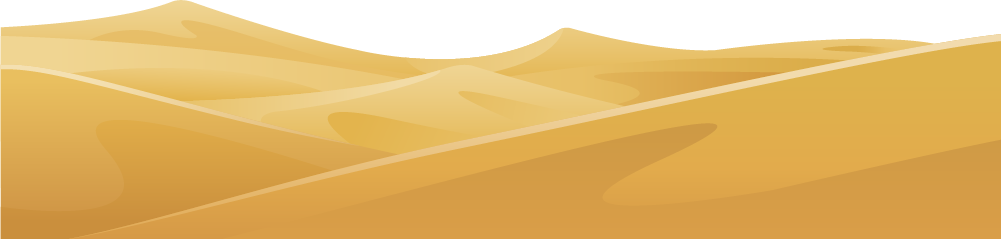
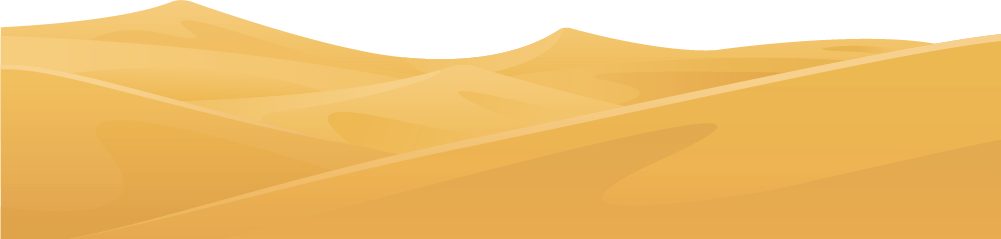
Recolored and adjusted images

diff --git a/src/pages/Home/Home.jsx b/src/pages/Home/Home.jsx
@@ -9,6 +9,7 @@ import Dunes from "../../assets/images/Home/Dunes.png";
 import Floor from "../../assets/images/Home/Floor.png";
 import Front_Floor from "../../assets/images/Home/Front-Floor.png";
 import Sun from "../../assets/images/Home/Sun.png";
+import FlyingBird from "../../assets/images/Home/FlyingBird.png"
 
 function Home() {
   return (
@@ -17,19 +18,26 @@ function Home() {
       {/* </PageAnimation> */}
       <ScrollLabel />
 
-      <div className="w-screen h-screen absolute top-0 left-0 -z-10 bg-gradient-to-b from-[#ffdd80] to-[#F3E0B3]">
+      <div className="w-screen h-screen absolute top-0 left-0 -z-10 bg-gradient-to-b from-[#ffc75f] to-[#ffe49b]">
         <ImgContainer
-          data-speed={3}
+          data-speed={6}
           src={Sun}
-          size="cover"
+          size="contain"
           position="bottom"
-          className="scroll absolute top-0 left-0 md:hidden w-96 h-96 2xl:scale-125"
+          className="scroll absolute top-0 left-0 md:top-10 md:-left-10 w-96 h-96 md:w-60 md:h-60 2xl:scale-125"
+        />
+        <ImgContainer
+          data-speed={6}
+          src={FlyingBird}
+          size="contain"
+          position="bottom"
+          className="scroll absolute top-[10vh] right-[10vw] md:hidden w-32 h-32 2xl:scale-125"
         />
         <ImgContainer
           data-speed={4}
           src={Dunes}
           size="cover"
-          position="bottom"
+          position="bottom left"
           className="scroll absolute bottom-0 right-0 w-full h-[28rem] 2xl:h-[36rem] self-end "
         />
         <ImgContainer

diff --git a/src/components/SocialMedia.jsx b/src/components/SocialMedia.jsx
@@ -17,7 +17,7 @@ const SocialMedia = () => {
 
             <div
               className={
-                "opacity-0 hover:opacity-100 h-20 w-20 absolute top-0 flex justify-center items-center rounded-full duration-200 transition-all " +
+                "opacity-0 hover:opacity-100 h-20 w-20 absolute top-0 flex justify-center items-center rounded-full duration-200 transition-all md:h-16 md:w-16 sm:h-14 sm:w-14 " +
                 item.hoverColor
               }
             >
